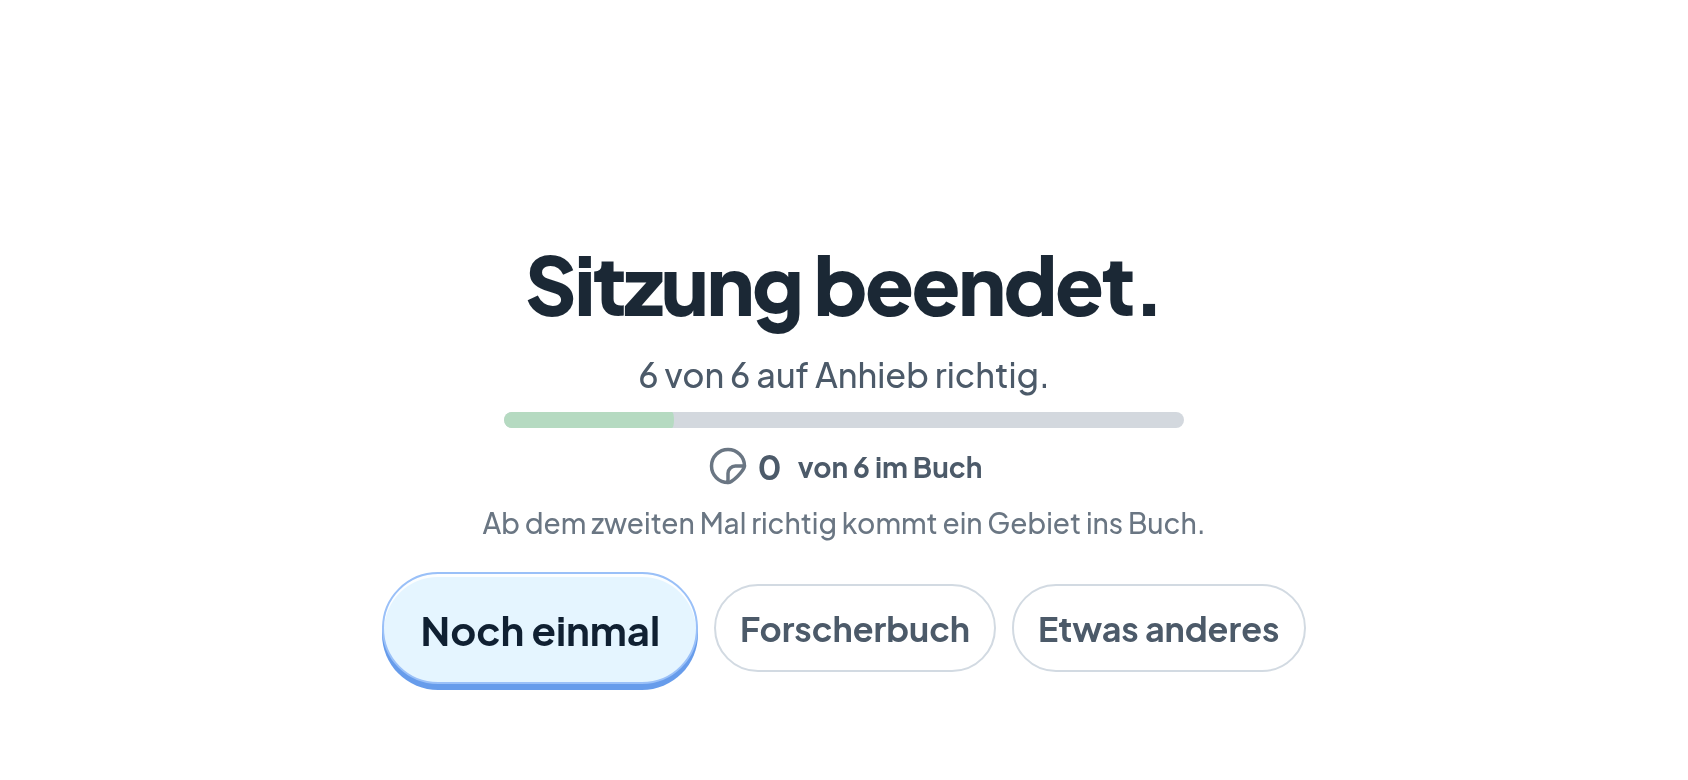
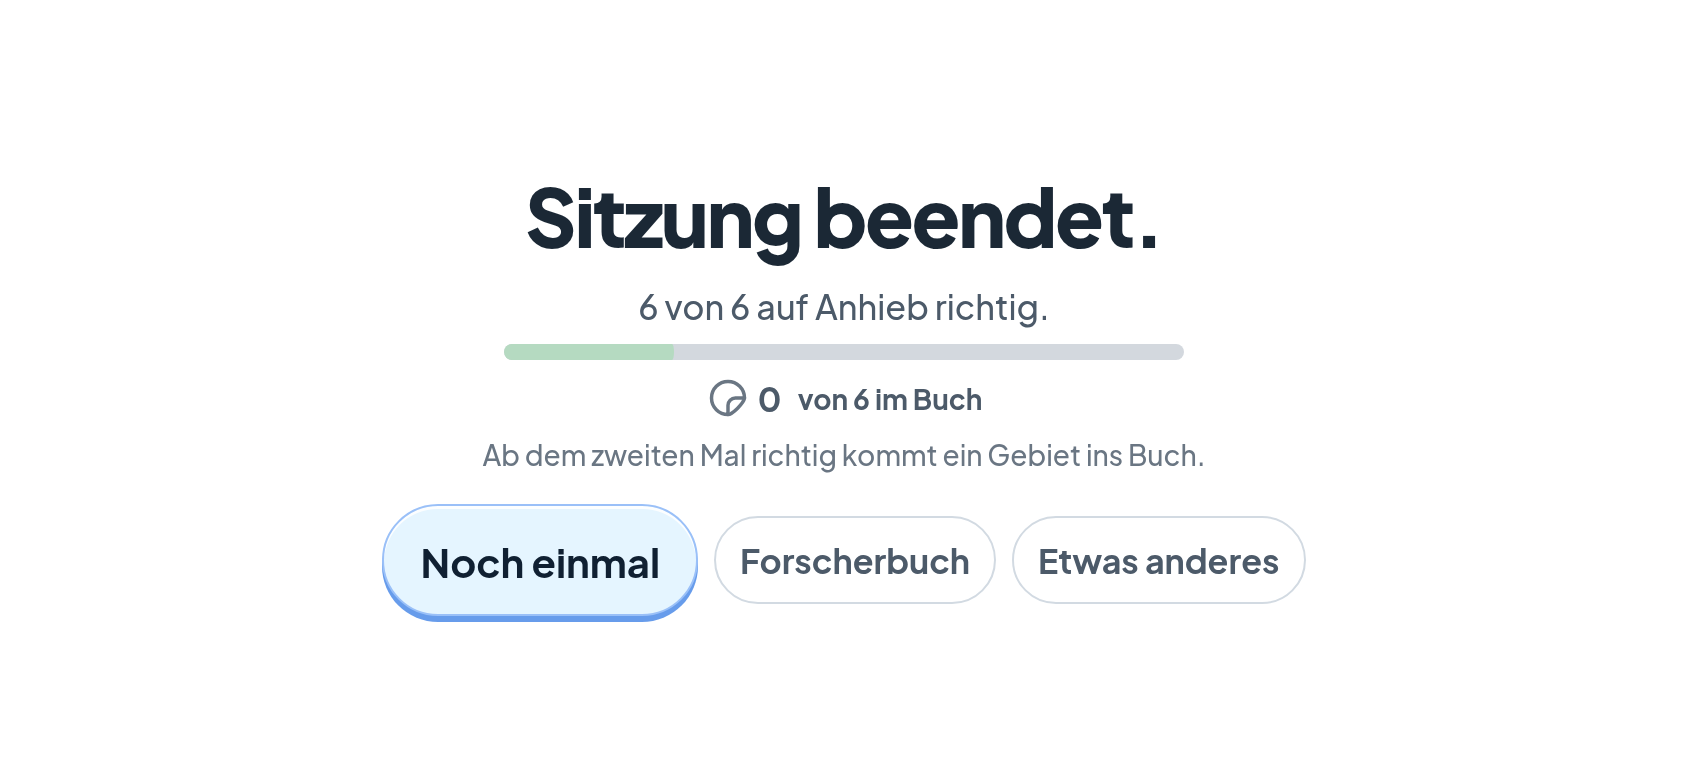
Ein leerer Kopf ist kein Kopf — 68 Punkte zurück
Wieder war die Vermutung falsch und die Messung ergiebig. Der
Endbildschirm hat KEIN Leerraumproblem durch die Sitzungslaenge: er zeigt
nichts, was von der Zahl der Aufgaben abhaengt, und sein Inhalt sass
schon mittig — 24 Punkte Luft oben, 24 unten.

Mittig aber in `.mitte`, und darueber stand ein `kopf({})`: drei leere
Faecher mit `min-height:68px`. Auf dem Zielgeraet sind das 17 % der
Bildschirmhoehe, in denen nichts steht, und der Block darunter stand
damit 68 Punkte unter der Mitte des Bildschirms — 92 Punkte Luft ueber
den Sternen, 24 unter den Knoepfen. Genau das war im Bild zu sehen und in
keiner Zahl.

`kopf()` gibt jetzt nichts zurueck, wenn alle drei Faecher leer sind. Die
Entscheidung faellt dort und nicht an den zwei Aufrufstellen: wer den
naechsten Bildschirm ohne Kopfzeile baut, soll nicht daran denken
muessen. Gemessen danach: 58 Punkte Luft oben, 58 unten.

Der zweite Bildschirm, der davon lebt, ist die PAUSE — und der hatte bis
hierher kein Vorbild, obwohl er einen Knopf traegt, der alles loescht,
was in dieser Uebung gesammelt wurde. Jetzt gibt es `quer-pause`.

Claude-Session: https://claude.ai/code/session_01GwecUQxeRqJxKHLkGsVrjv

Changed region(s): [[0.2773, 0.2462, 0.7085, 0.6154], [0.2156, 0.6462, 0.7701, 0.8923], [0.6161, 0.7692, 0.7701, 0.8308]]

diff --git a/prototyp/spiel.js b/prototyp/spiel.js
@@ -53,10 +53,25 @@ const zeichenKnopf = (id, zeichen, name)=>
  * durcheinander zu benutzen ist der haeufigste Grund, warum ein Kind sich
  * in einer App verirrt.
  */
+/* Ein LEERER Kopf ist kein Kopf.
+ *
+ * Der Endbildschirm und die Pause riefen `kopf({})` - drei leere Faecher,
+ * und `min-height:68px` machte daraus ein Band von 68 Punkten, in dem
+ * nichts steht. Auf dem Zielgeraet sind das 17 % der Bildschirmhoehe, und
+ * weil der Rest darunter mittig sitzt, stand der ganze Block 68 Punkte
+ * unter der Mitte: viel Luft oben, wenig unten. Gemessen, nicht geschaetzt
+ * - 92 Punkte ueber den Sternen, 24 unter den Knoepfen.
+ *
+ * Die Entscheidung faellt HIER und nicht an den zwei Aufrufstellen: wer
+ * den naechsten Bildschirm ohne Kopfzeile baut, soll nicht daran denken
+ * muessen.
+ */
 const kopf = ({ links='', mitte='', rechts='' })=>
-  `<div class="kopf"><div class="kopf-links">${links}</div>
+  (links || mitte || rechts)
+  ? `<div class="kopf"><div class="kopf-links">${links}</div>
     <div class="kopf-mitte">${mitte}</div>
-    <div class="kopf-rechts">${rechts}</div></div>`;
+    <div class="kopf-rechts">${rechts}</div></div>`
+  : '';
 const zurueckKnopf = (wohin='Zurück')=>
   `<button class="knopf" id="zur"><span class="zei">${ZURUECK}</span><span class="wort">${wohin}</span></button>`;
 const schliessenKnopf = (was='Schließen')=>
